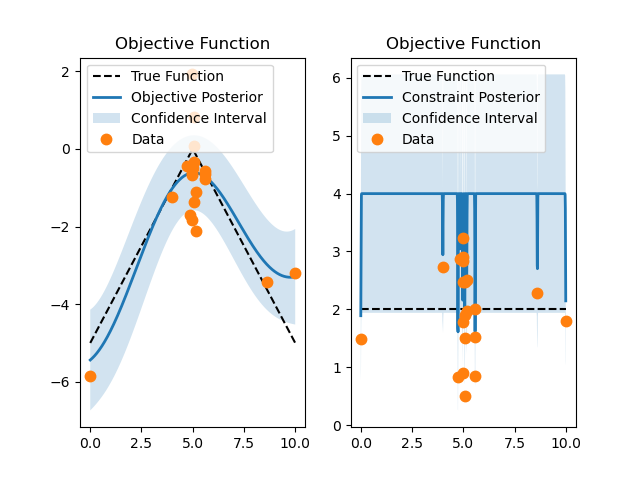
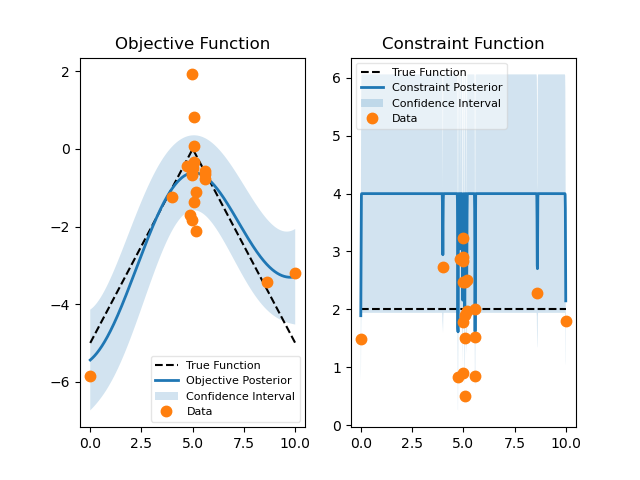
improve plot task 3

Changed region(s): [[0.5625, 0.0625, 0.875, 0.3438], [0.125, 0.125, 0.4375, 0.3438], [0.2188, 0.75, 0.4688, 0.875]]

diff --git a/task_3/solution.py b/task_3/solution.py
@@ -166,6 +166,8 @@ class BO_algo():
 
 
         fig, axes = plt.subplots(ncols=2, nrows=1)
+        legend_fontsize = 8
+        legend_alpha = 0.5
 
         axes[0].plot(xs, f_vals, 'k--', label="True Function")
         axes[0].plot(xs, f_pred, '-', color="tab:blue", lw=2, label="Objective Posterior")
@@ -177,7 +179,7 @@ class BO_algo():
             label="Confidence Interval"
         )
         axes[0].plot(np.array(self.X).flatten(), self.f, '.', markersize=15, color="tab:orange", label="Data")
-        axes[0].legend(loc="upper left")
+        axes[0].legend(loc="lower right", fontsize=legend_fontsize, framealpha=legend_alpha)
         axes[0].title.set_text("Objective Function")
 
 
@@ -191,8 +193,8 @@ class BO_algo():
             label="Confidence Interval"
         )
         axes[1].plot(np.array(self.X).flatten(), self.v, '.', markersize=15, color="tab:orange", label="Data")
-        axes[1].legend(loc="upper left")
-        axes[1].title.set_text("Objective Function")
+        axes[1].legend(loc="upper left", fontsize=legend_fontsize, framealpha=legend_alpha)
+        axes[1].title.set_text("Constraint Function")
 
         plt.savefig('obj_and_const_functions.png')
 

diff --git a/README.md b/README.md
@@ -4,7 +4,7 @@
 
 Projects from the '263-5210-00L  Probabilistic Artificial Intelligence' course by Prof. Krause.
 
-**Disclaimer:** Task 1 and 2 utilize a private dataset that will not be released.
+**Disclaimer:** Task 1 and 2 utilize private datasets that will not be released.
 
 ## Projects
 
